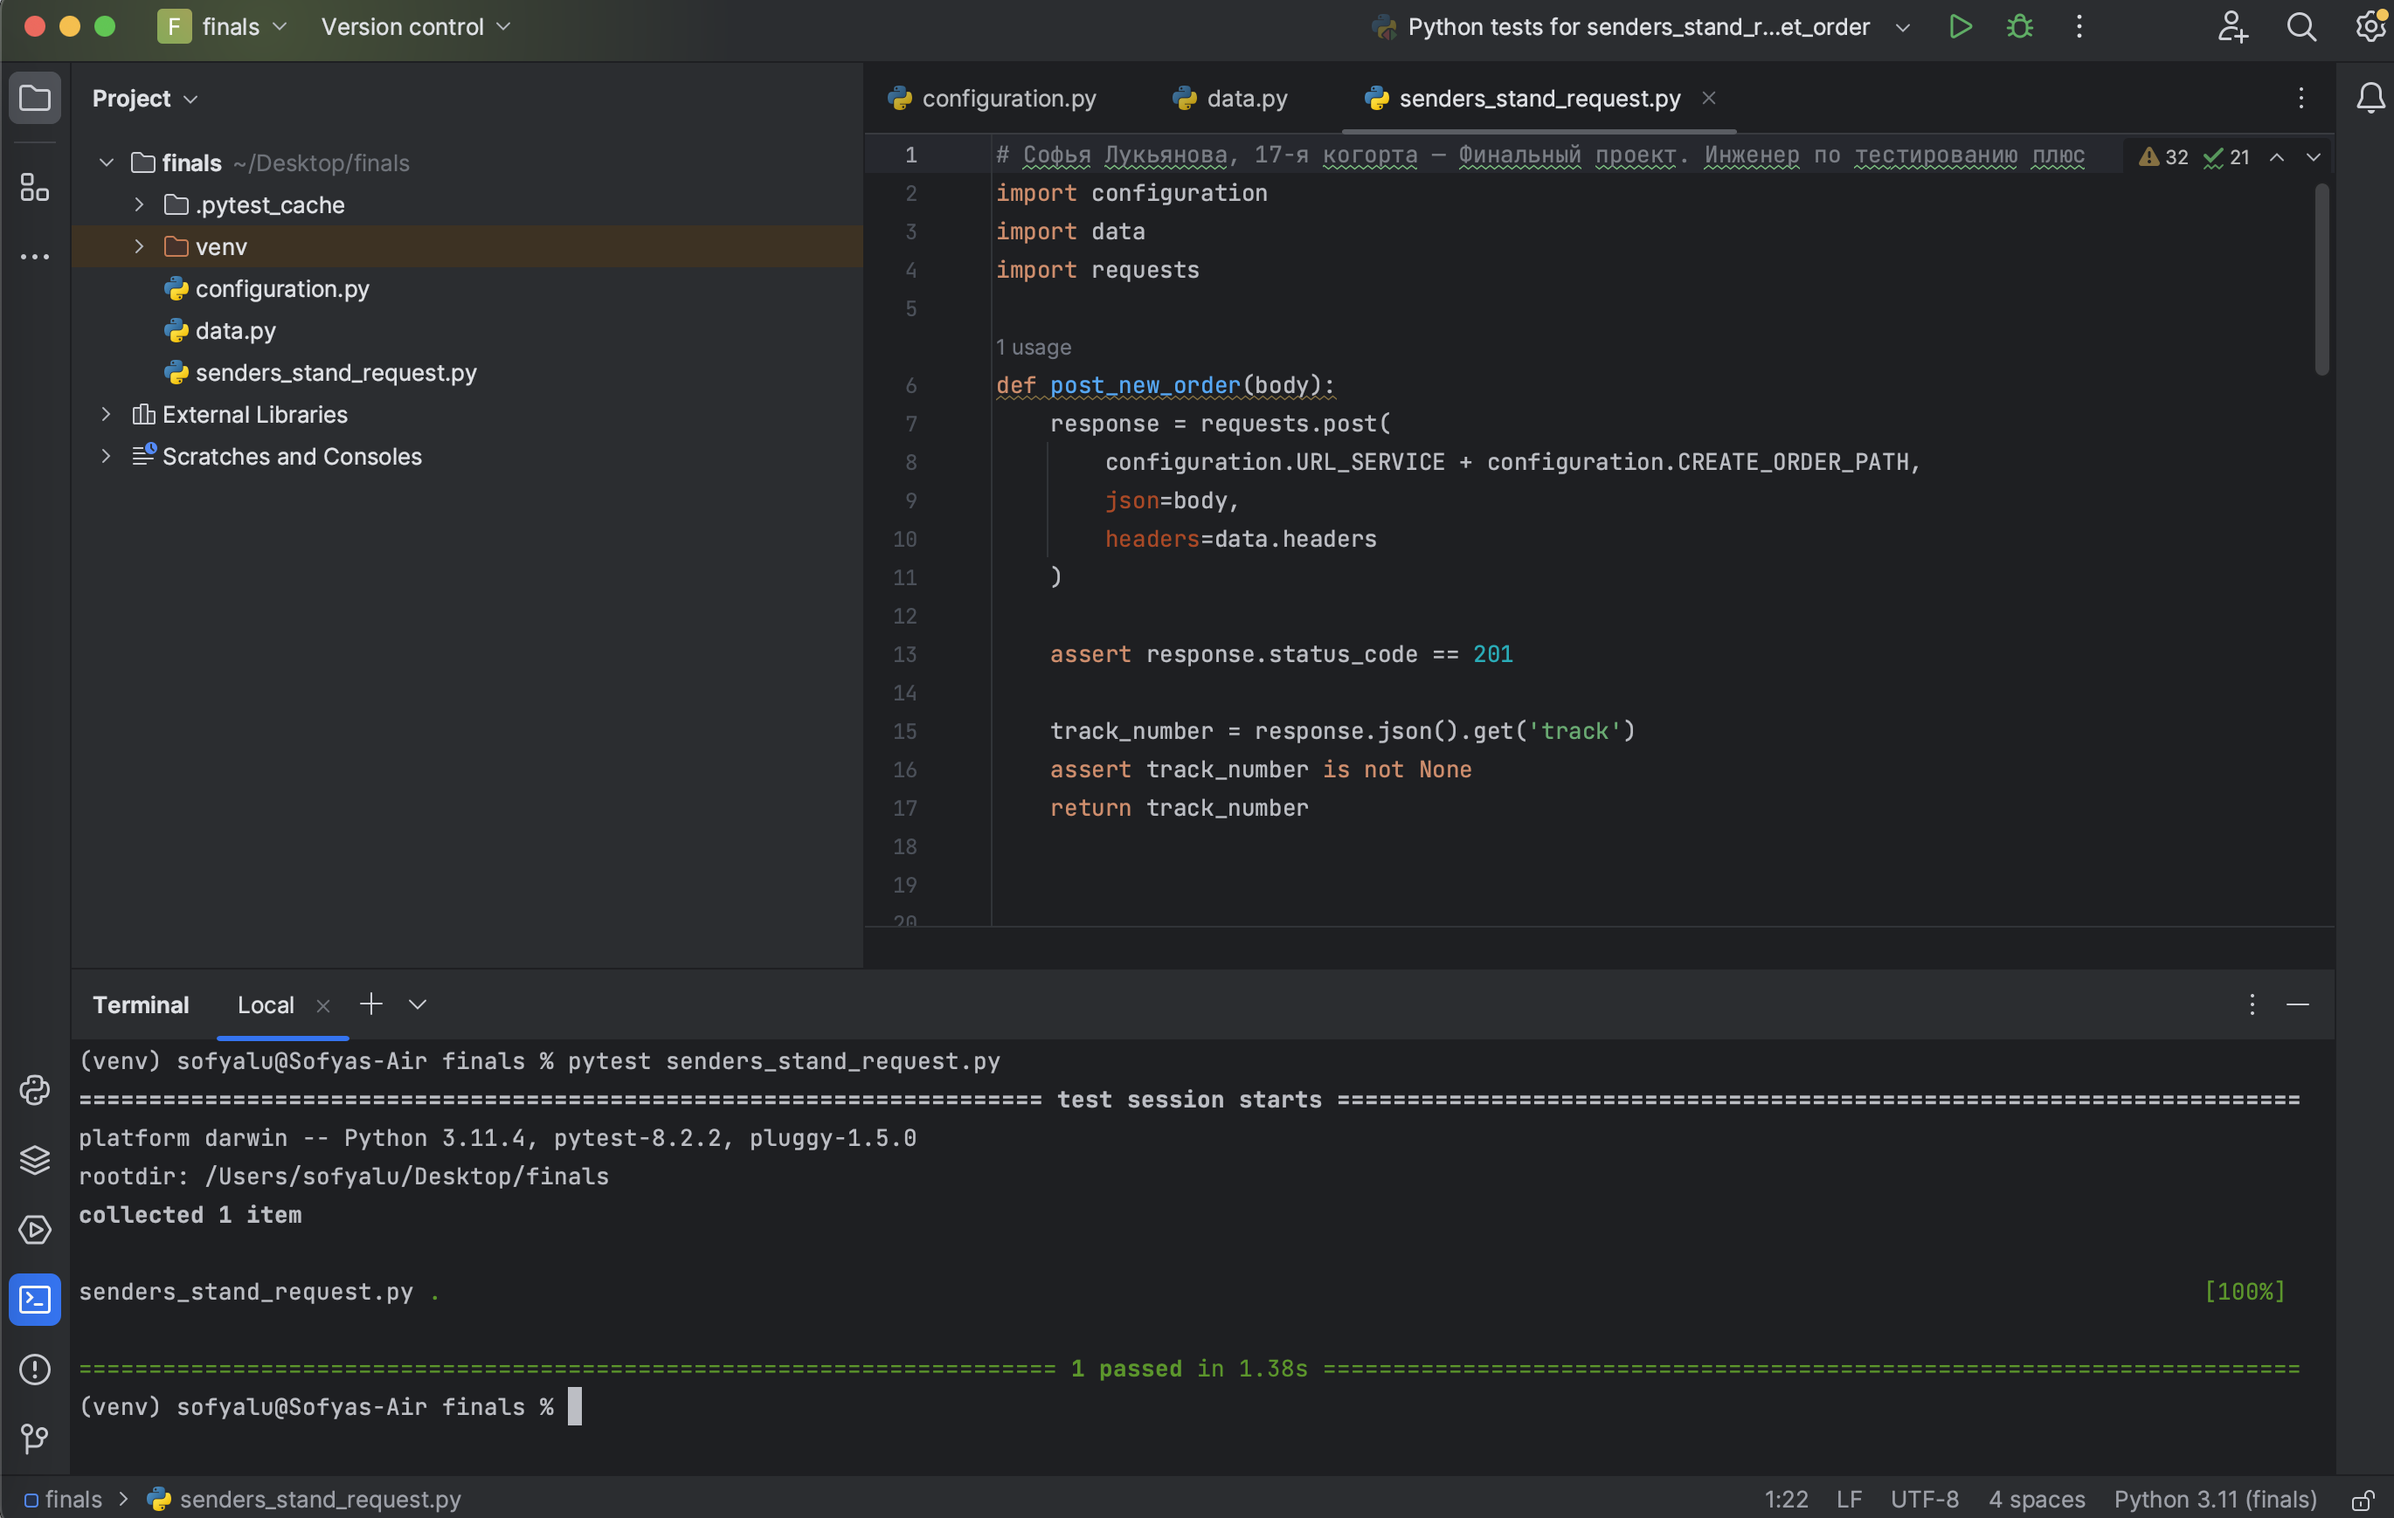
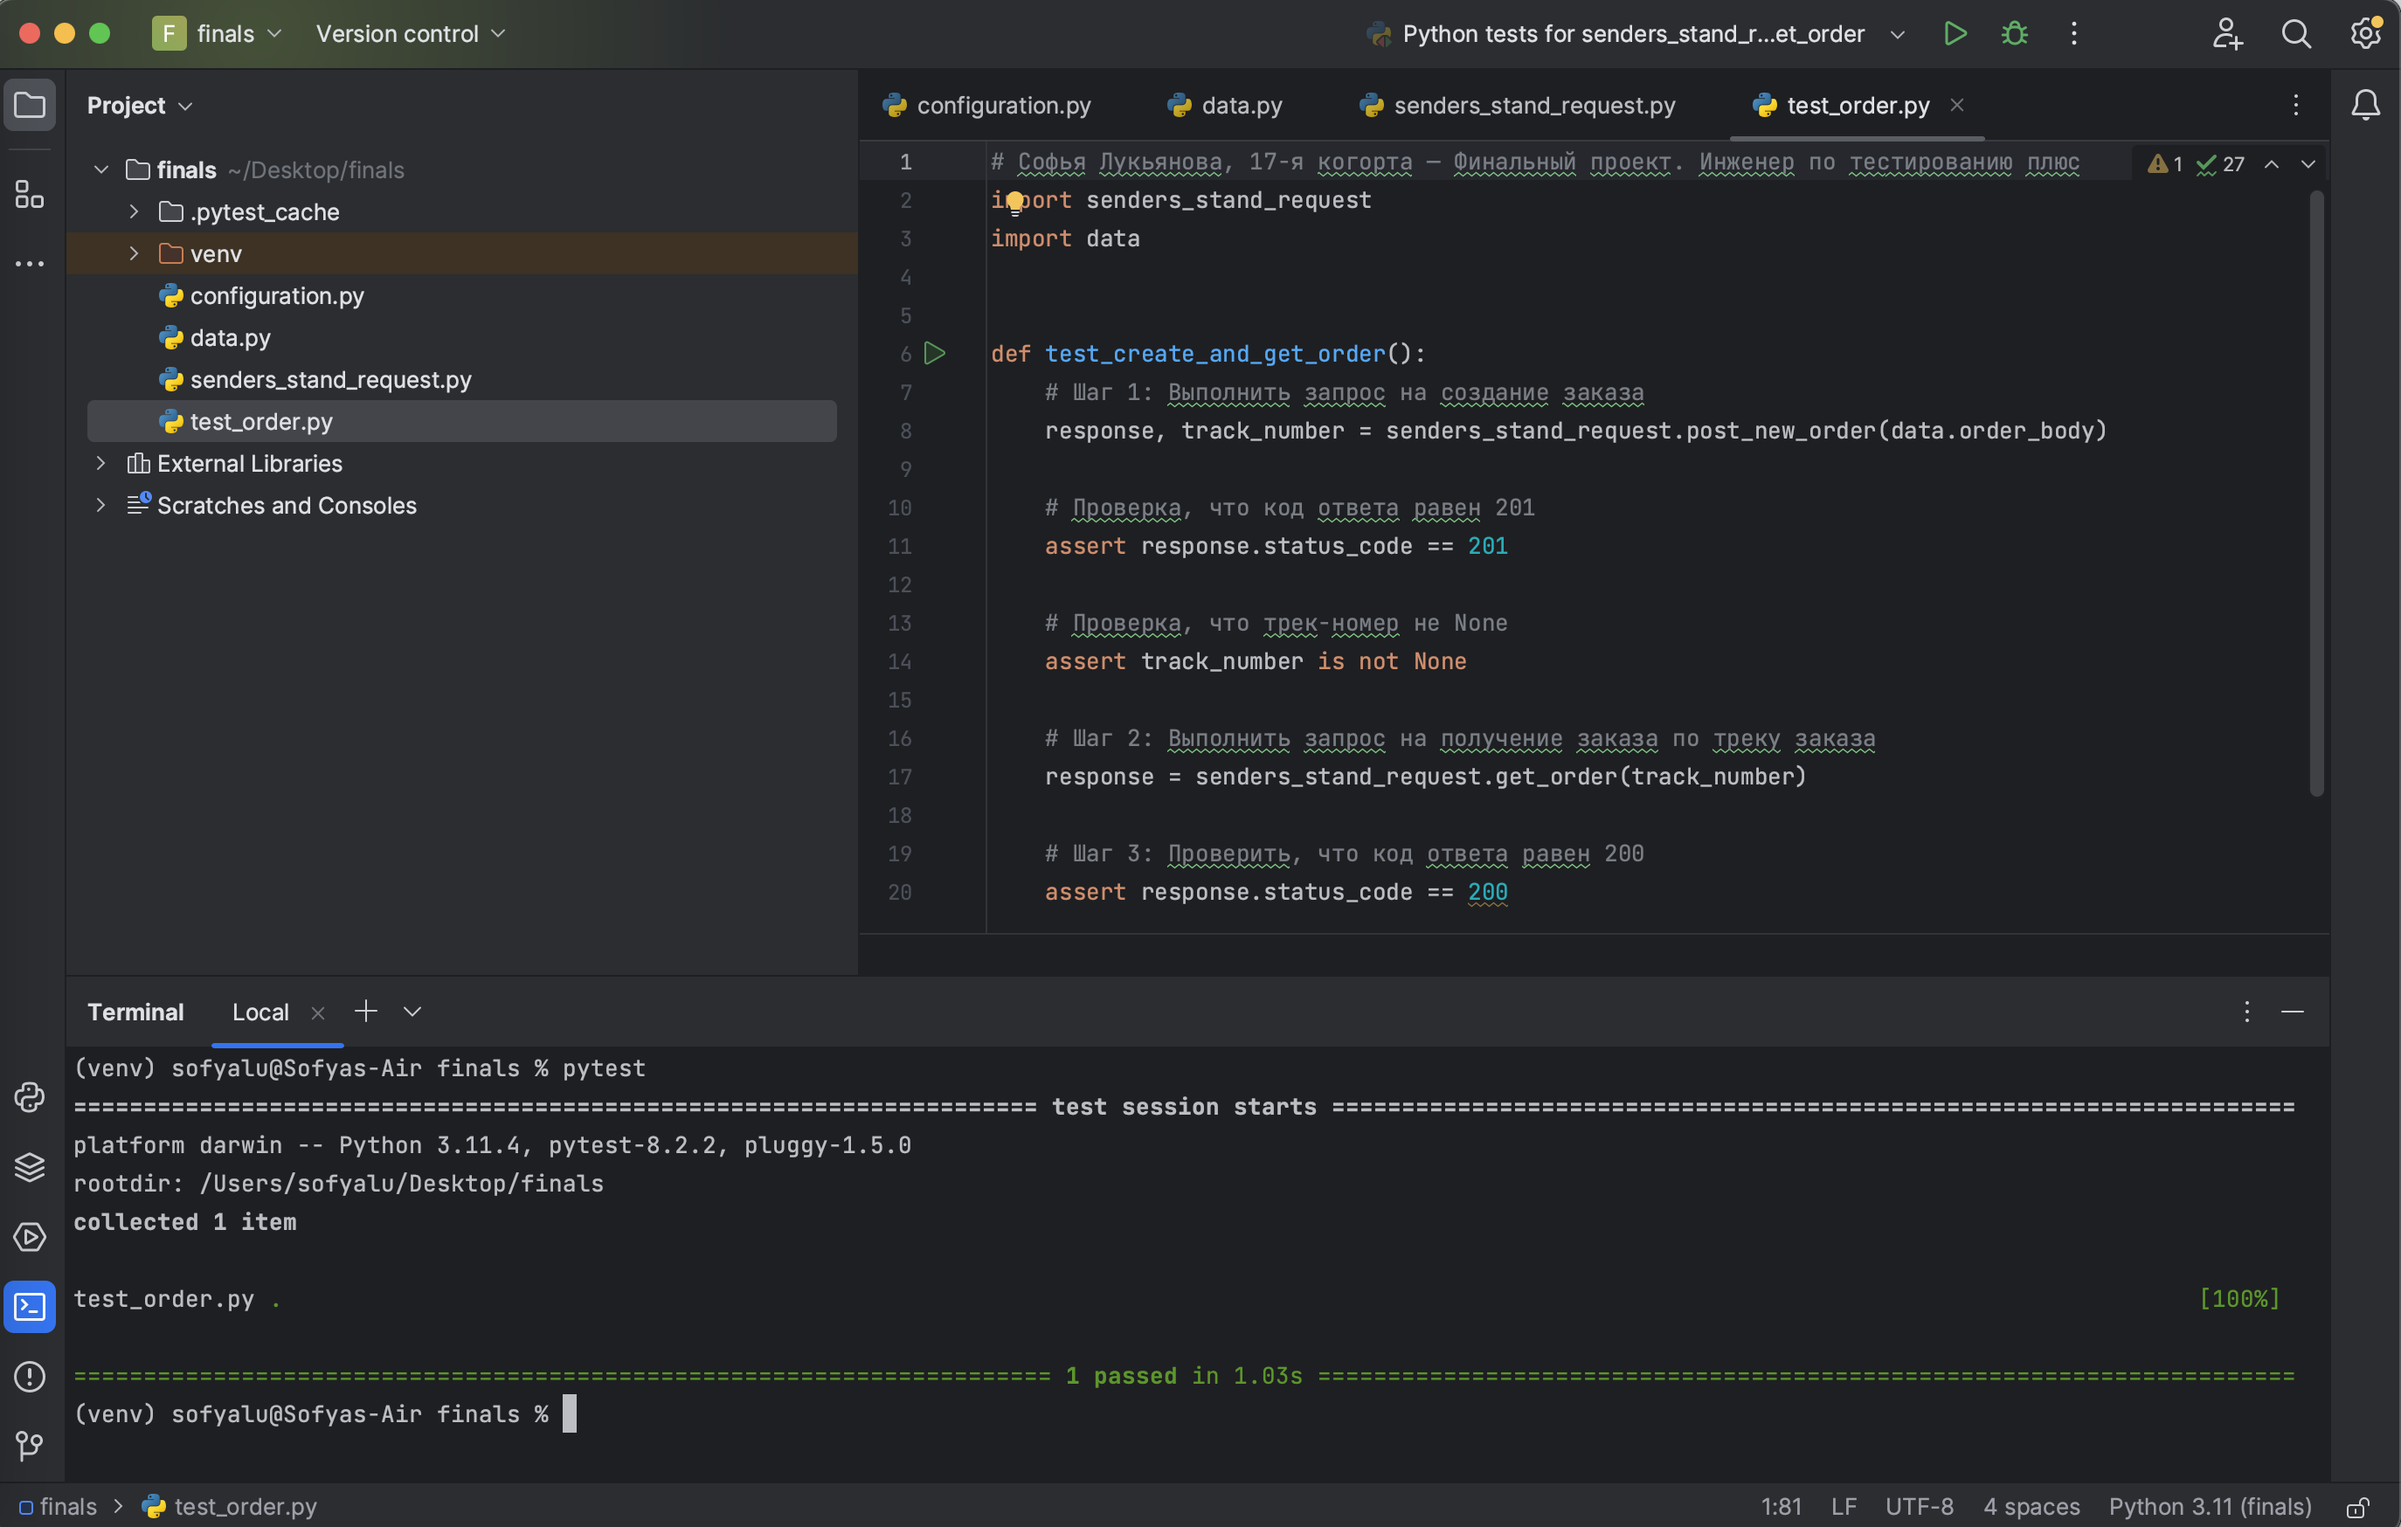
Add files via upload

diff --git a/senders_stand_request.py b/senders_stand_request.py
@@ -8,13 +8,8 @@ def post_new_order(body):
         json=body,
         headers=data.headers
     )
-
-    assert response.status_code == 201
-
     track_number = response.json().get('track')
-    assert track_number is not None
-    return track_number
-
+    return response, track_number
 
 
 def get_order(track_number):
@@ -23,47 +18,3 @@ def get_order(track_number):
         headers=data.headers
     )
     return response
-
-
-def test_create_and_get_order():
-        # Шаг 1: Выполнить запрос на создание заказа
-        track_number = post_new_order(data.order_body)
-
-        # Шаг 2: Выполнить запрос на получение заказа по треку заказа
-        response = get_order(track_number)
-
-        # Шаг 3: Проверить, что код ответа равен 200
-        assert response.status_code == 200
-
-
-
-
-
-
-
-#def post_new_order(body):
-    #return requests.post(configuration.URL_SERVICE + configuration.CREATE_ORDER_PATH,
-                         #json=body,
-                         #headers=data.headers)
-#response = post_new_order(data.order_body)
-#assert response.status_code == 201
-#track_number = response.json().get('track')
-#print(track_number)
-#rint(response.url)
-#print(response.status_code)
-
-
-
-#def get_order(track_number):
-    #response = requests.get(
-        #configuration.URL_SERVICE + configuration.GET_ORDER_PATH + track_number,
-        #headers=data.headers)
-    #print(response.status_code)
-    #print(response.url)
-    #return response
-
-
-#def test_create_and_get_order():
-    #track_number = post_new_order(data.order_body)
-    #response = get_order(track_number)
-    #assert response.status_code == 200

diff --git a/test_order.py b/test_order.py
@@ -1,0 +1,20 @@
+# Софья Лукьянова, 17-я когорта — Финальный проект. Инженер по тестированию плюс
+import senders_stand_request
+import data
+
+
+def test_create_and_get_order():
+    # Шаг 1: Выполнить запрос на создание заказа
+    response, track_number = senders_stand_request.post_new_order(data.order_body)
+
+    # Проверка, что код ответа равен 201
+    assert response.status_code == 201
+
+    # Проверка, что трек-номер не None
+    assert track_number is not None
+
+    # Шаг 2: Выполнить запрос на получение заказа по треку заказа
+    response = senders_stand_request.get_order(track_number)
+
+    # Шаг 3: Проверить, что код ответа равен 200
+    assert response.status_code == 200

diff --git a/configuration.py b/configuration.py
@@ -1,3 +1,3 @@
-URL_SERVICE = "https://4516a4e6-116c-4647-b79f-21e2b5b07d0c.serverhub.praktikum-services.ru"
+URL_SERVICE = "https://acfc7a6a-4196-4934-8a55-1630b7a4baff.serverhub.praktikum-services.ru"
 CREATE_ORDER_PATH = "/api/v1/orders"
 GET_ORDER_PATH = "/api/v1/orders/track?t="
